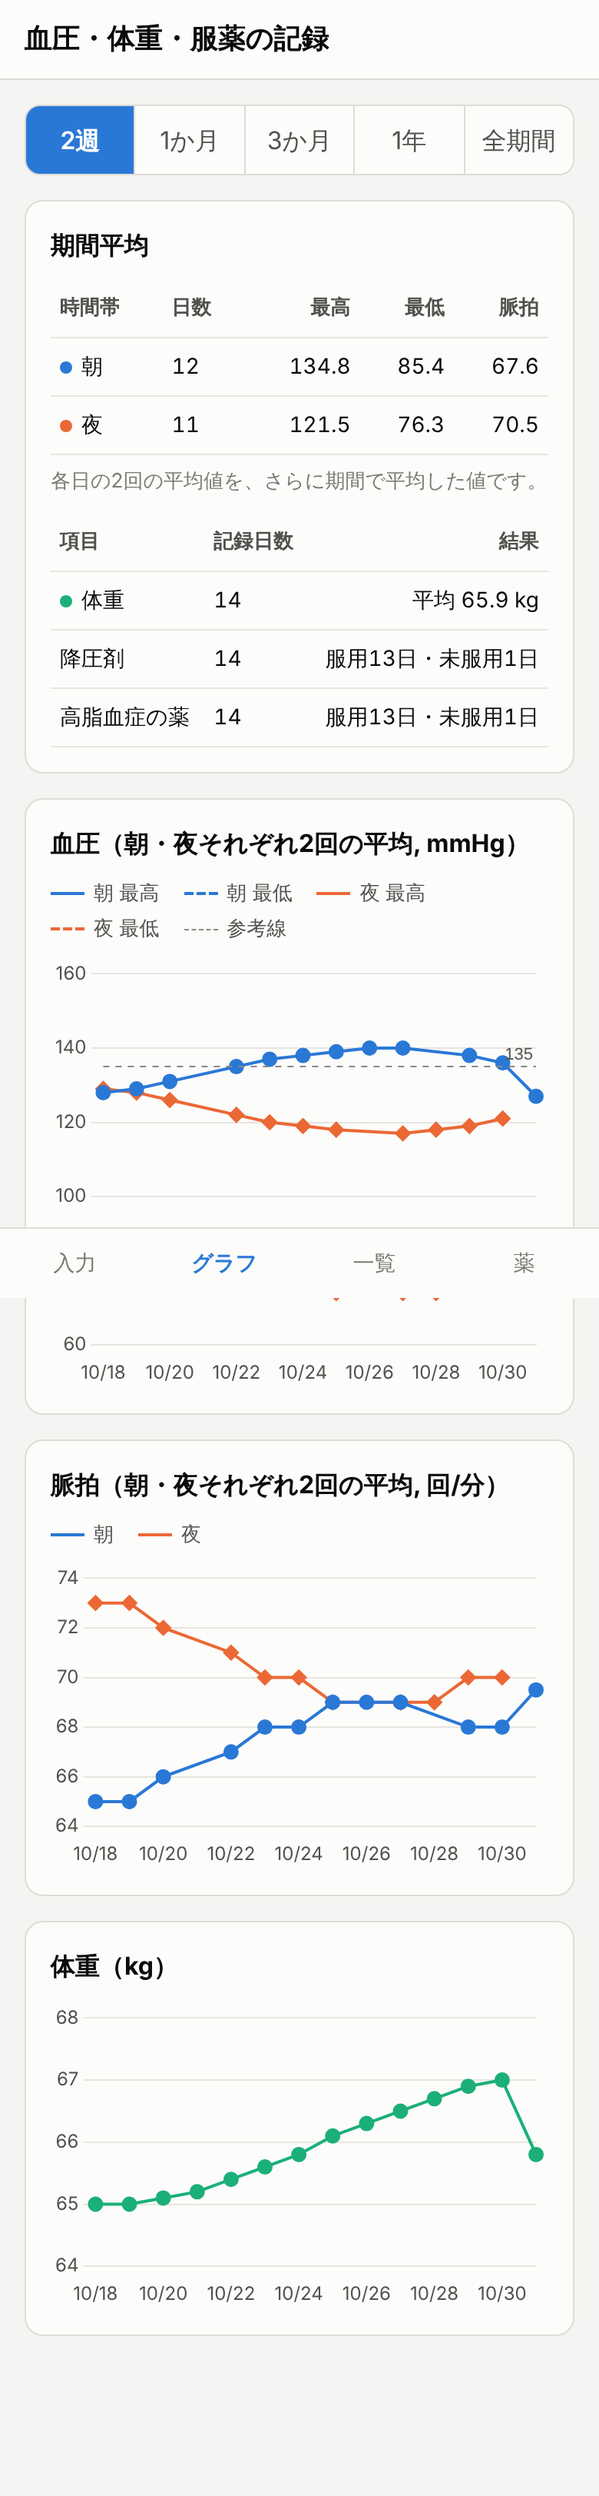
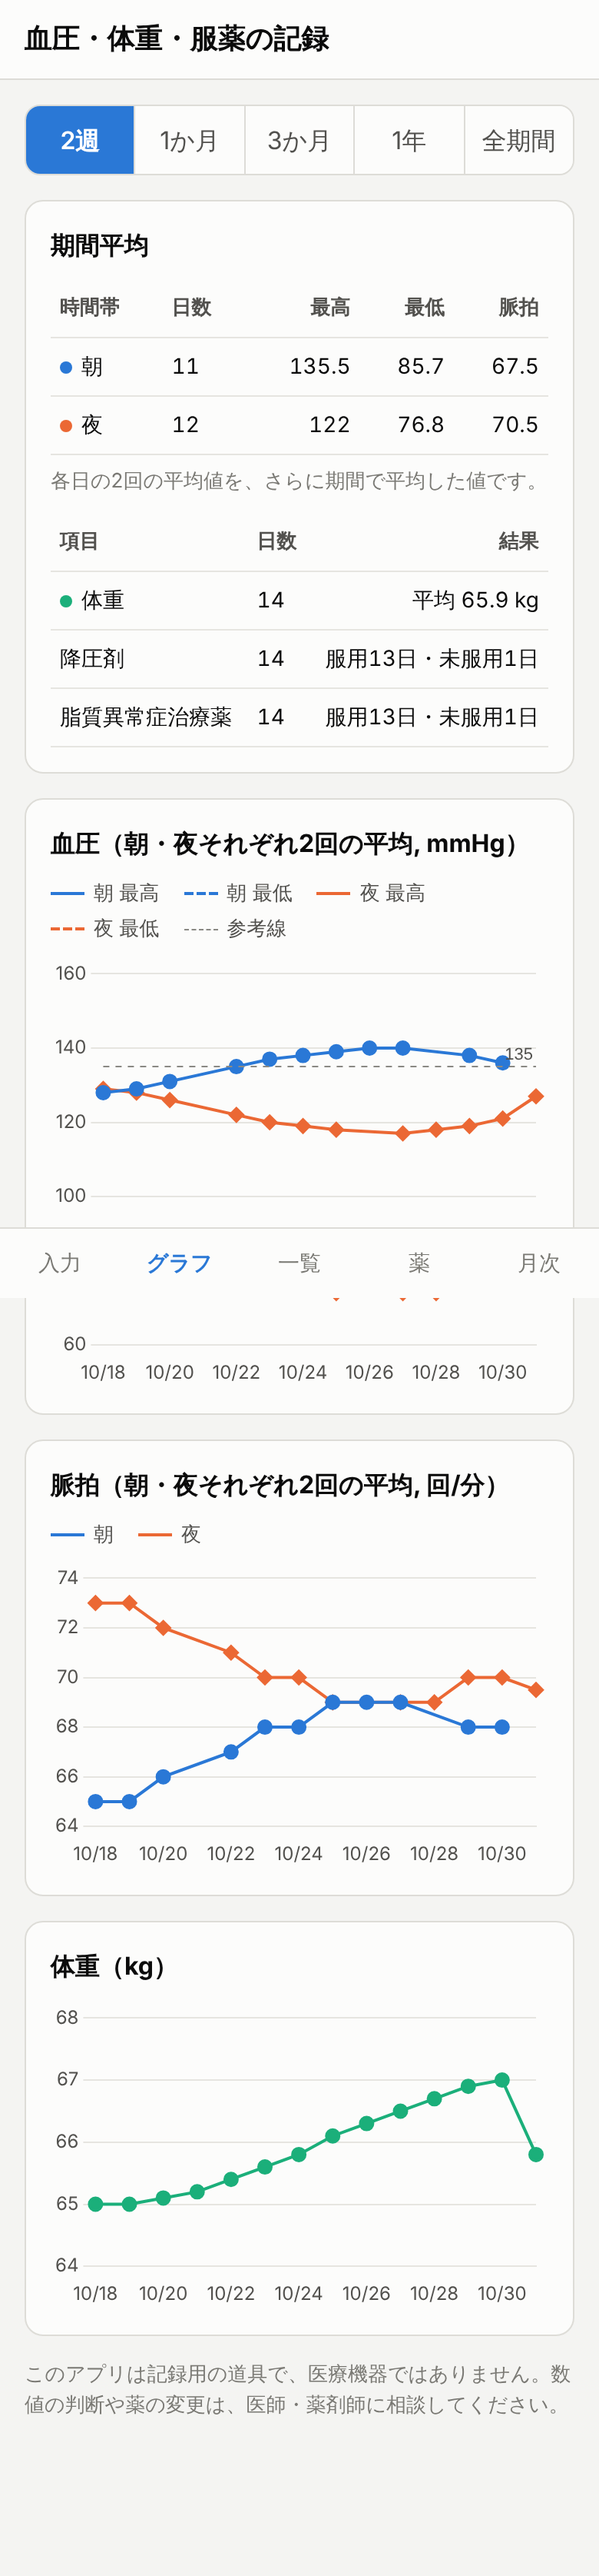
「高脂血症の薬」を「脂質異常症治療薬」に変更
- 表示名を変更。シートに以前の名前が残っていても読めるようにし、見つけたら新しい名前に置き換える
- 既存シートの見出しが変わっていれば、見出し行を合わせる
- 期間平均の表の列見出しを短くして、長い薬の種類名でも折り返さないようにする

Claude-Session: https://claude.ai/code/session_012jtipQ5C92DGqQqhZJ1RjM

diff --git a/test/mock-gas.js b/test/mock-gas.js
@@ -48,6 +48,22 @@
     }
     return this;
   };
+  MockRange.prototype.createTextFinder = function (text) {
+    var range = this;
+    var finder = {
+      matchEntireCell: function () { return finder; },
+      replaceAllWith: function (v) {
+        var n = 0;
+        range.s.rows.forEach(function (row) {
+          if (!row) return;
+          var from = range.nc ? range.c - 1 : 1, to = range.nc ? from + range.nc : 2; // getRange('B:B') は B 列として扱う
+          for (var j = from; j < to; j++) if (row[j] === text) { row[j] = v; n++; }
+        });
+        return n;
+      }
+    };
+    return finder;
+  };
   MockRange.prototype.setFontWeight = function () { return this; };
   MockRange.prototype.setNumberFormat = function () { return this; };
   MockRange.prototype.sort = function (specs) {

diff --git a/src/Index.html b/src/Index.html
@@ -247,7 +247,7 @@
         <div class="small" style="margin-top:8px">各日の2回の平均値を、さらに期間で平均した値です。</div>
         <div class="table-wrap" style="margin-top:12px">
           <table class="wrap">
-            <thead><tr><th>項目</th><th>記録日数</th><th>結果</th></tr></thead>
+            <thead><tr><th>項目</th><th>日数</th><th>結果</th></tr></thead>
             <tbody id="summary-daily"></tbody>
           </table>
         </div>

diff --git a/README.md b/README.md
@@ -1,6 +1,6 @@
 # 血圧・体重・服薬の記録アプリ（bp-tracker）
 
-毎朝・毎夜それぞれ2回測る血圧と脈拍、1日1回の体重、降圧剤と高脂血症の薬の服用の有無をスマホから入力して
+毎朝・毎夜それぞれ2回測る血圧と脈拍、1日1回の体重、降圧剤と脂質異常症治療薬の服用の有無をスマホから入力して
 **Google シート** に保存し、朝・夜それぞれの2回の平均値や体重をグラフで確認する Web アプリです。
 Google Apps Script（GAS）の Web アプリとして動くため、サーバーや API キーの用意は不要です。
 スマホのホーム画面に追加すると、アプリのように起動できます。
@@ -20,7 +20,7 @@ Google Apps Script（GAS）の Web アプリとして動くため、サーバー
   - 数字を打つと次の欄へ自動で移動します。2回の平均をその場で表示します
   - 同じ日付・時間帯をもう一度保存すると上書きします（1回目だけ先に保存し、2回目を後から追加することも可能）
   - **体重**（任意、1日1回）：日付ごとに1件。朝・夜どちらの画面で入力しても同じ日の記録になります。前回の値を欄の下に表示します
-  - **服薬**：降圧剤・高脂血症の薬それぞれ「飲んだ／飲まなかった」を選びます（1日1回）
+  - **服薬**：降圧剤・脂質異常症治療薬それぞれ「飲んだ／飲まなかった」を選びます（1日1回）
     - その日の記録がなければ、**前回の入力をデフォルトで表示**します。そのまま「保存」すると記録されます
     - 選択中のボタンをもう一度押すと「未入力」に戻ります
     - その日に有効な薬の登録（下記）がない種類は表示・記録しません
@@ -37,7 +37,7 @@ Google Apps Script（GAS）の Web アプリとして動くため、サーバー
   - **血圧の月平均の推移**：朝・夜の最高／最低の月平均を、3年分ずつの段に分けて表示します。全段で縦軸をそろえています
   - **月平均グラフの PDF（A4縦）**：1ページに上下2段、1段3年分。脈拍は載せません
   - PDF はドライブのフォルダ「血圧記録 PDF」に保存され、作成後に表示されるリンクから開けます。同じ名前の PDF を作り直すと、古いものはゴミ箱に移ります
-- **薬**：薬品名と量を、種類（降圧剤／高脂血症の薬）ごとに**期間で登録**します
+- **薬**：薬品名と量を、種類（降圧剤／脂質異常症治療薬）ごとに**期間で登録**します
   - 新規登録のフォームには、その種類の直近の登録（薬品名・量）がデフォルトで入ります
   - 薬や量が変わったら、変更日を開始日にして登録すると、それまでの「継続中」の登録は前日で自動的に終了します
   - 同じ種類で期間が重なる登録はエラーになります。登録をタップすると編集・削除できます
@@ -55,7 +55,7 @@ Google Apps Script（GAS）の Web アプリとして動くため、サーバー
 
 **日次**（1行＝1日の体重と服薬）
 
-| 日付 | 体重(kg) | 降圧剤 服用 | 降圧剤 薬品名 | 降圧剤 量 | 高脂血症の薬 服用 | 高脂血症の薬 薬品名 | 高脂血症の薬 量 | 更新日時 |
+| 日付 | 体重(kg) | 降圧剤 服用 | 降圧剤 薬品名 | 降圧剤 量 | 脂質異常症治療薬 服用 | 脂質異常症治療薬 薬品名 | 脂質異常症治療薬 量 | 更新日時 |
 |---|---|---|---|---|---|---|---|---|
 
 服用は「服用」「未服用」、空欄は未入力です。薬品名・量は「薬の登録」の内容から自動で入り、登録を変更すると書き直されます。
